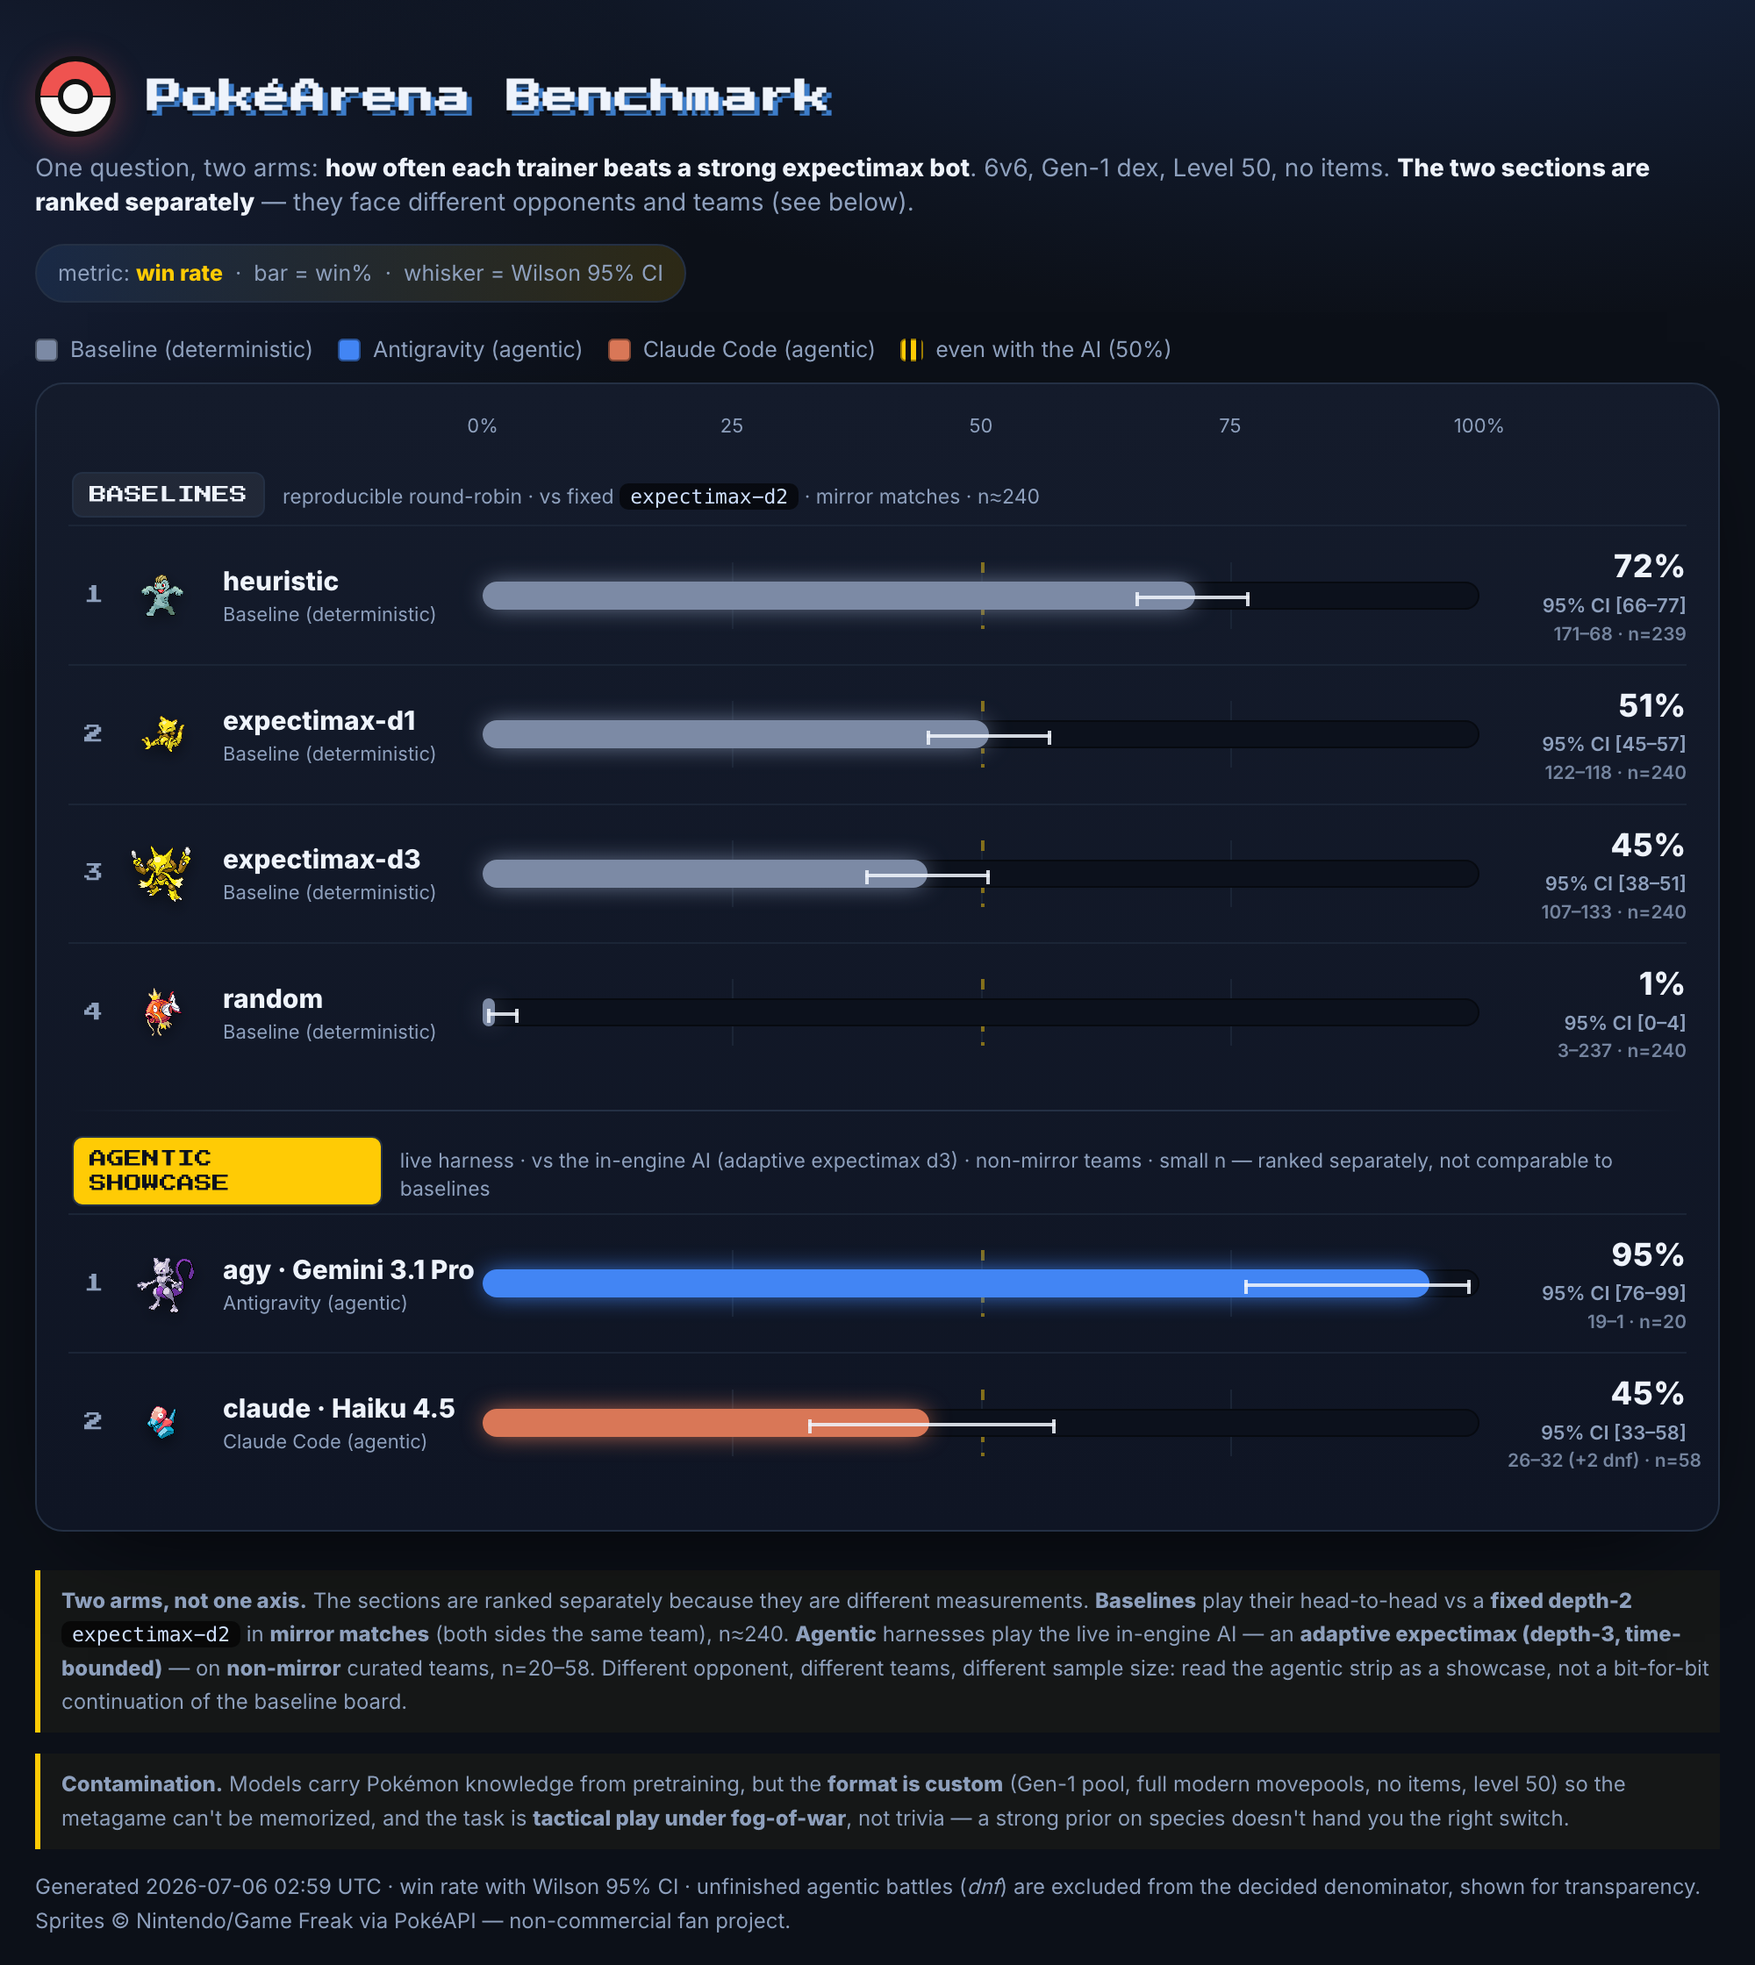
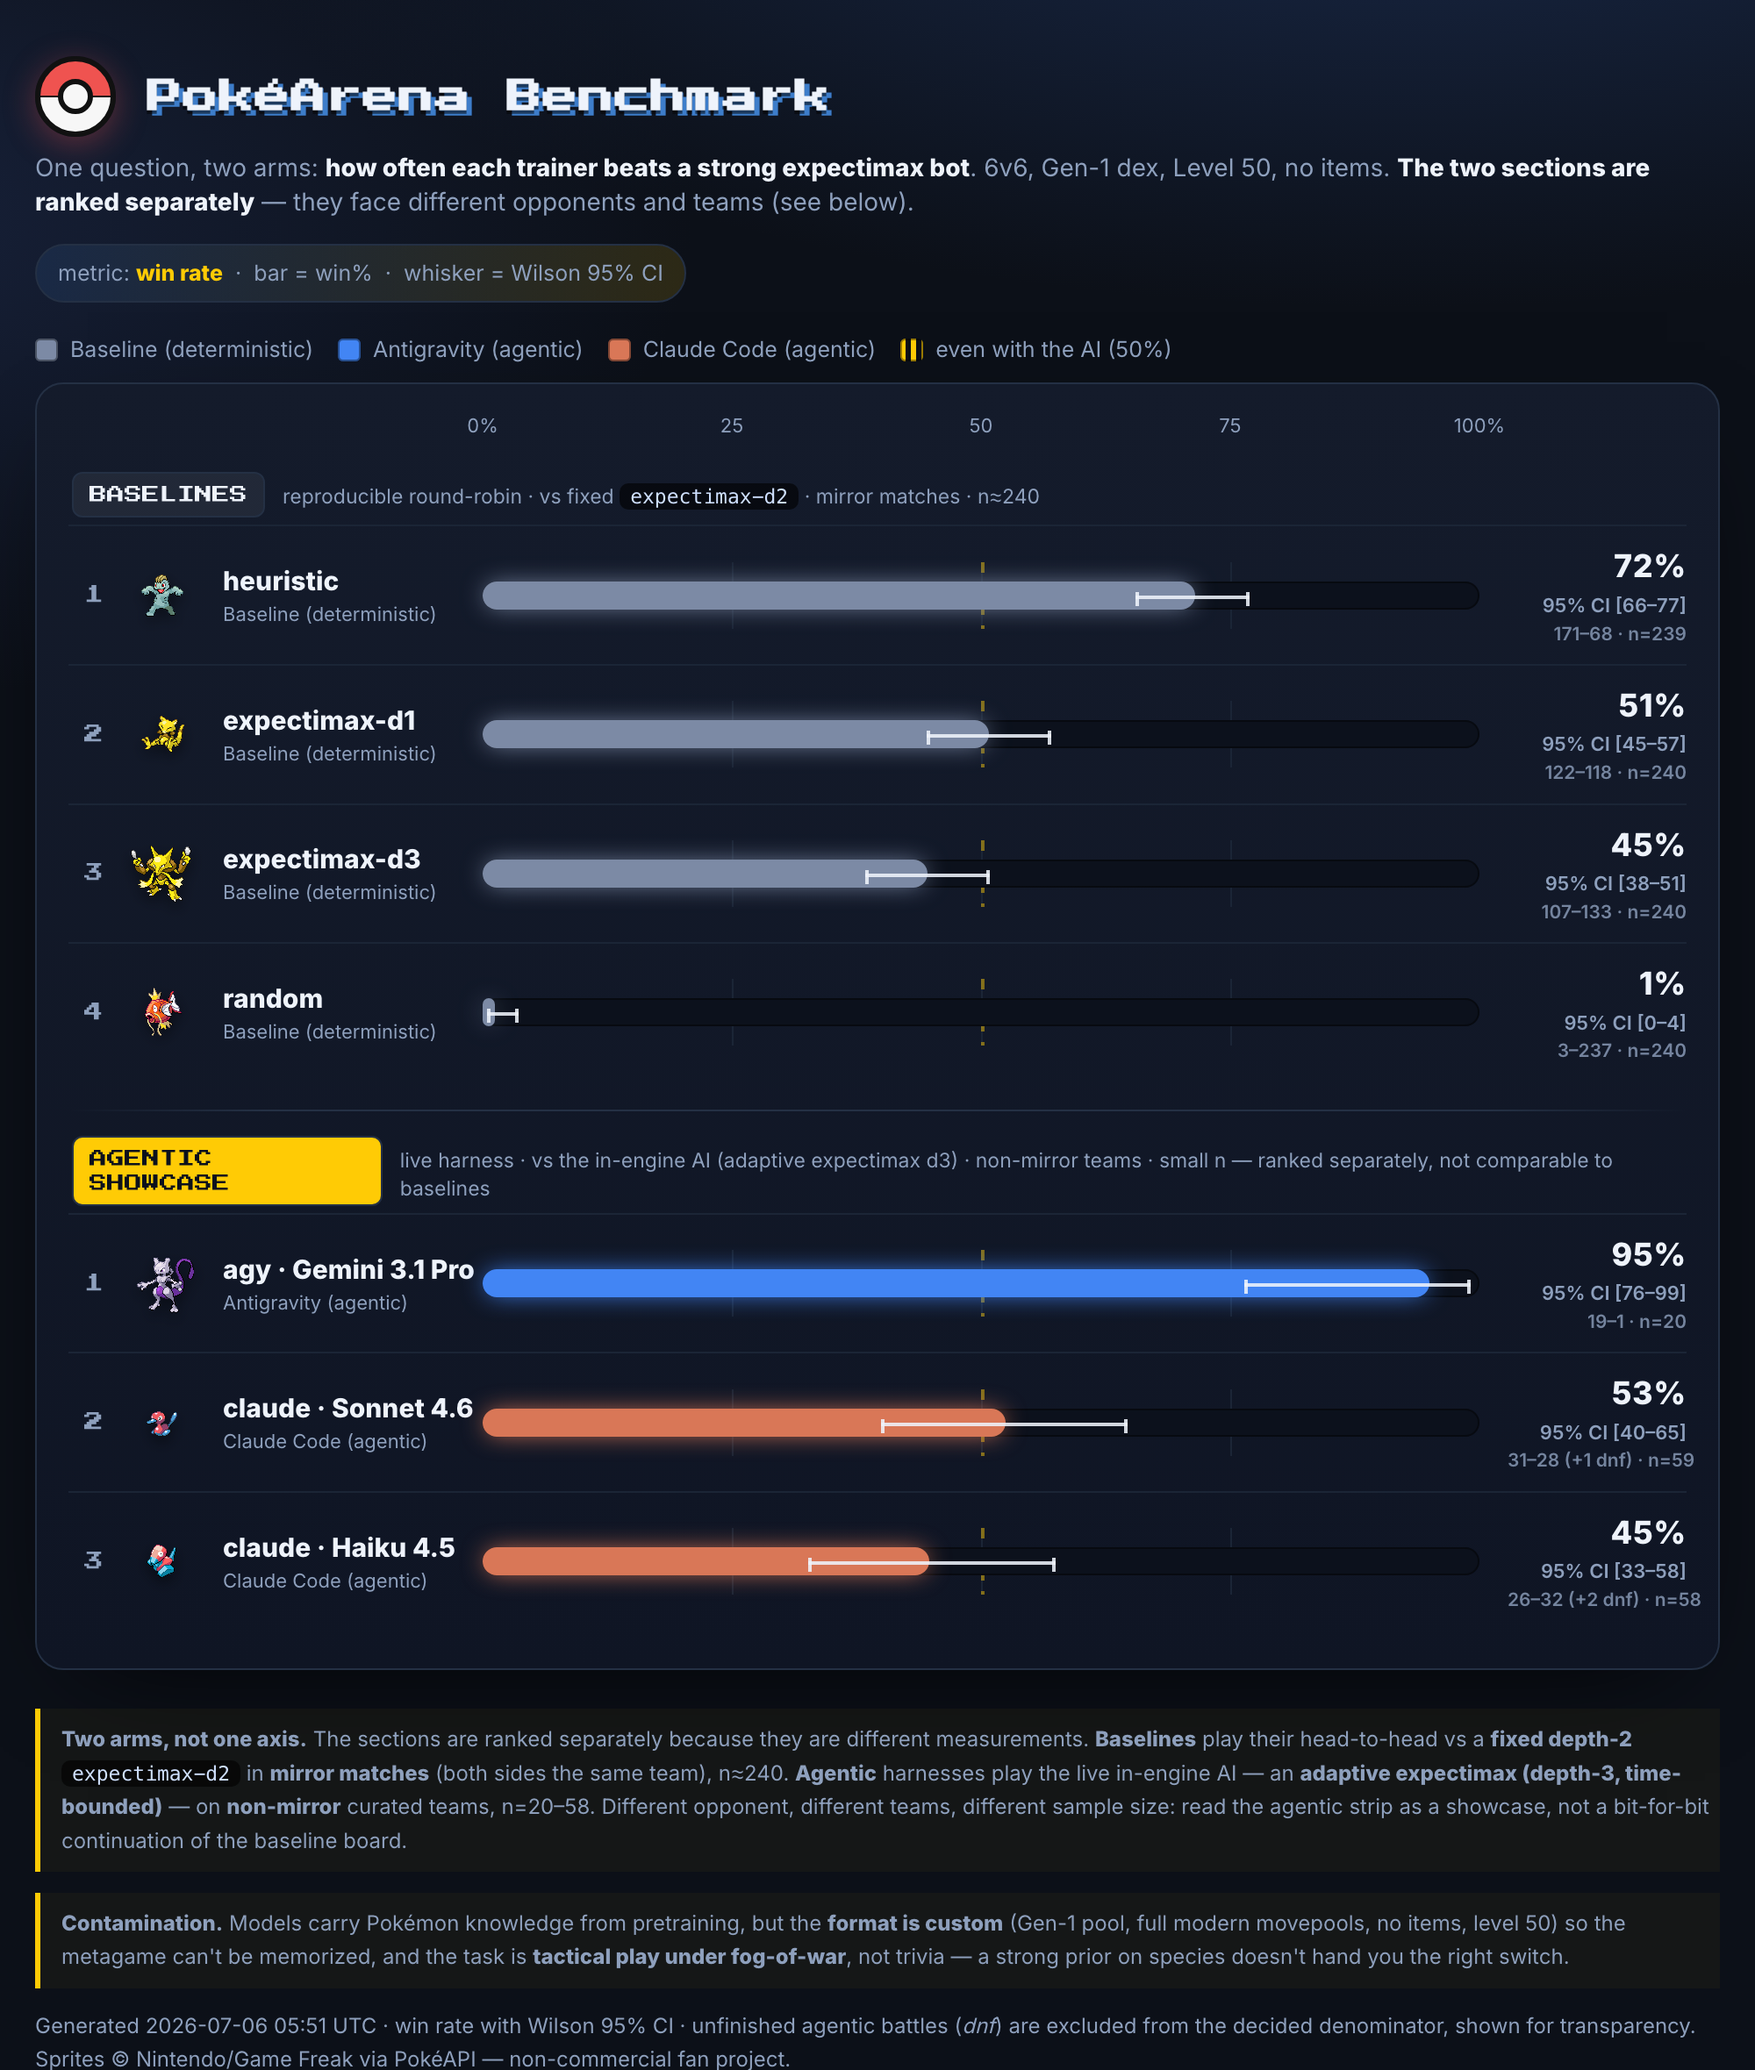
docs: add Claude Code Sonnet 4.6 to the agentic showcase
60 live Sonnet battles (20 x Genesis/Spectrum/Keystone) vs the in-engine AI on
the subscription harness. Result: 31-28 (+1 dnf), n=59, 53% [40-65] — laddering
above Haiku (45%) and below agy Gemini (95%), as expected. Wide per-team spread
(Genesis 84%, Spectrum 45%, Keystone 30%). Only 1 dnf across 60 battles: no
quota wall. Tallies archived under board-data; board regenerates from them.

diff --git a/docs/benchmark-board.html b/docs/benchmark-board.html
@@ -281,6 +281,31 @@
     <div class="row">
       <div class="who">
         <span class="rank">2</span>
+        <img class="sprite" loading="lazy" alt="" src="https://raw.githubusercontent.com/PokeAPI/sprites/master/sprites/pokemon/233.png">
+        <span class="txt">
+          <div class="name">claude · Sonnet 4.6</div>
+          <div class="arm">Claude Code (agentic)</div>
+        </span>
+      </div>
+      <div class="plot" style="--bar:52.5%; --cil:40.0%; --ciw:24.7%; --c1:#d97757; --c2:#d97757">
+        <div class="gl" style="left:25%"></div>
+        <div class="gl" style="left:50%"></div>
+        <div class="gl" style="left:75%"></div>
+        <div class="ref"></div>
+        <div class="track"></div>
+        <div class="bar"></div>
+        <div class="ci"></div>
+      </div>
+      <div class="score">
+        <span class="p">53%</span>
+        <span class="band">95% CI [40–65]</span>
+        <span class="rec">31–28 (&#43;1 dnf) · n=59</span>
+      </div>
+    </div>
+
+    <div class="row">
+      <div class="who">
+        <span class="rank">3</span>
         <img class="sprite" loading="lazy" alt="" src="https://raw.githubusercontent.com/PokeAPI/sprites/master/sprites/pokemon/137.png">
         <span class="txt">
           <div class="name">claude · Haiku 4.5</div>
@@ -322,7 +347,7 @@
       metagame can't be memorized, and the task is <b>tactical play under fog-of-war</b>, not
       trivia — a strong prior on species doesn't hand you the right switch.
     </div>
-    Generated 2026-07-06 02:59 UTC · win rate with Wilson 95% CI · unfinished agentic battles
+    Generated 2026-07-06 05:51 UTC · win rate with Wilson 95% CI · unfinished agentic battles
     (<i>dnf</i>) are excluded from the decided denominator, shown for transparency.
     Sprites © Nintendo/Game Freak via PokéAPI — non-commercial fan project.
   </footer>

diff --git a/docs/benchmark-board.md b/docs/benchmark-board.md
@@ -44,7 +44,8 @@ with that section's opponent."
 | # | Harness | Model | Win rate | n |
 |---|---------|-------|----------|---|
 | 1 | Antigravity | Gemini 3.1 Pro (High) | 95% [76–99] | 20 |
-| 2 | Claude Code | Haiku 4.5 | 45% [33–58] | 58 |
+| 2 | Claude Code | Sonnet 4.6 | 53% [40–65] | 59 |
+| 3 | Claude Code | Haiku 4.5 | 45% [33–58] | 58 |
 
 Two things the board makes obvious — read *within* a section:
 
@@ -54,8 +55,11 @@ Two things the board makes obvious — read *within* a section:
   can't see the hidden bench or model foe switches — see
   [benchmark.md §6](benchmark.md).)
 - **Among agentic harnesses, the driver is the variable.** Same engine, same
-  adaptive opponent, same team pool — Gemini 3.1 Pro clears it ~95% of the time
-  while Haiku sits at a coin flip. That gap is the harness+model, not the game.
+  adaptive opponent, same team pool — the Claude Code tier ladders as you'd
+  expect (Haiku 45% → Sonnet 53%), and Gemini 3.1 Pro clears the room at ~95%.
+  Sonnet's aggregate hides a wide per-team spread (Genesis 84%, Spectrum 45%,
+  Keystone 30%) — a reminder that a single team flatters or buries a model, which
+  is why the run spans the library.
 
 ## Honest limitations
 
